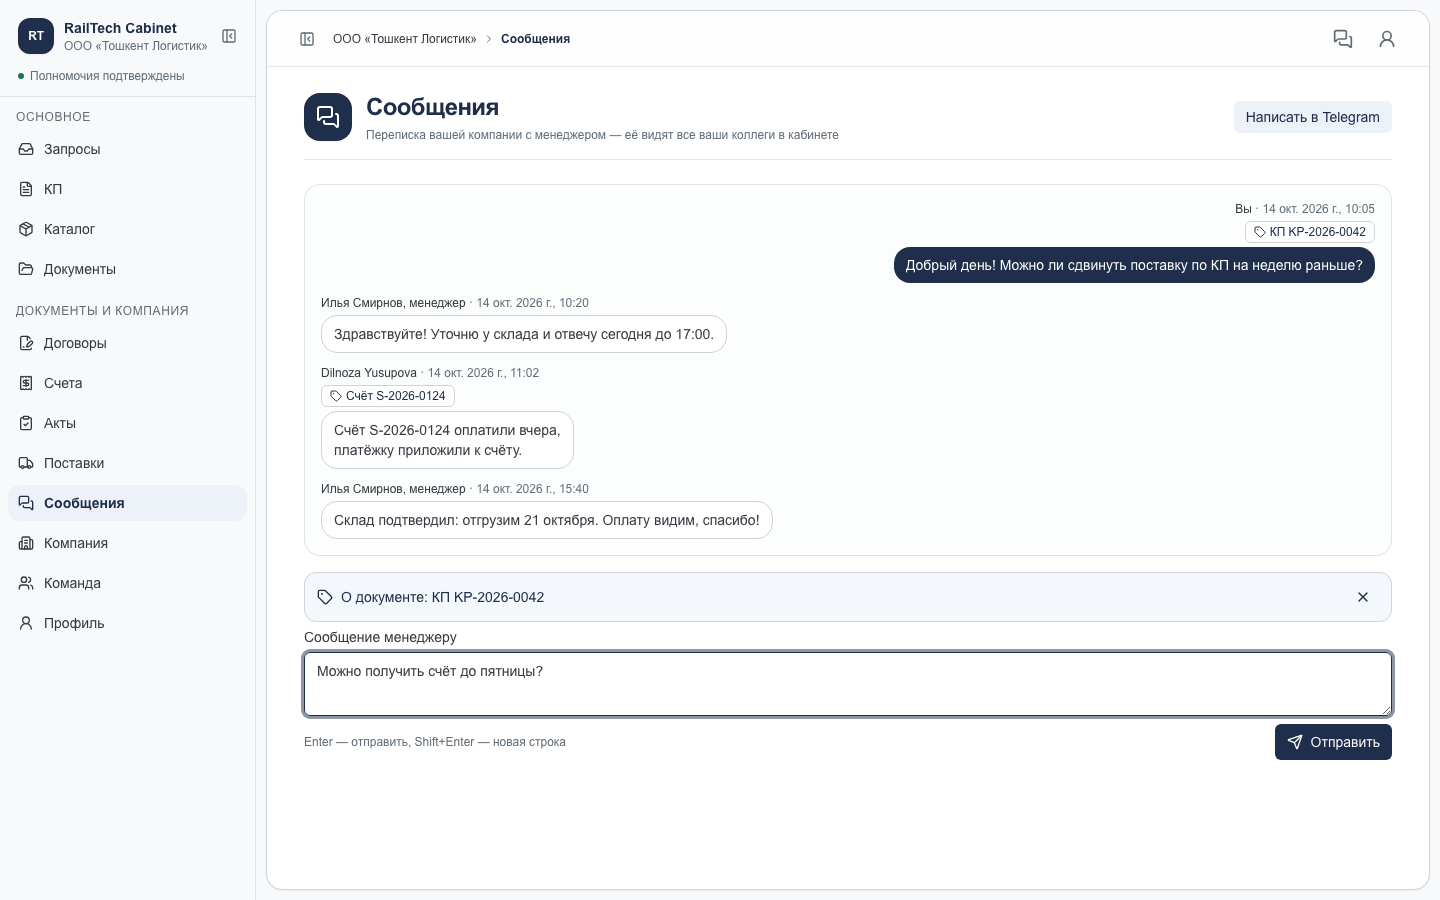
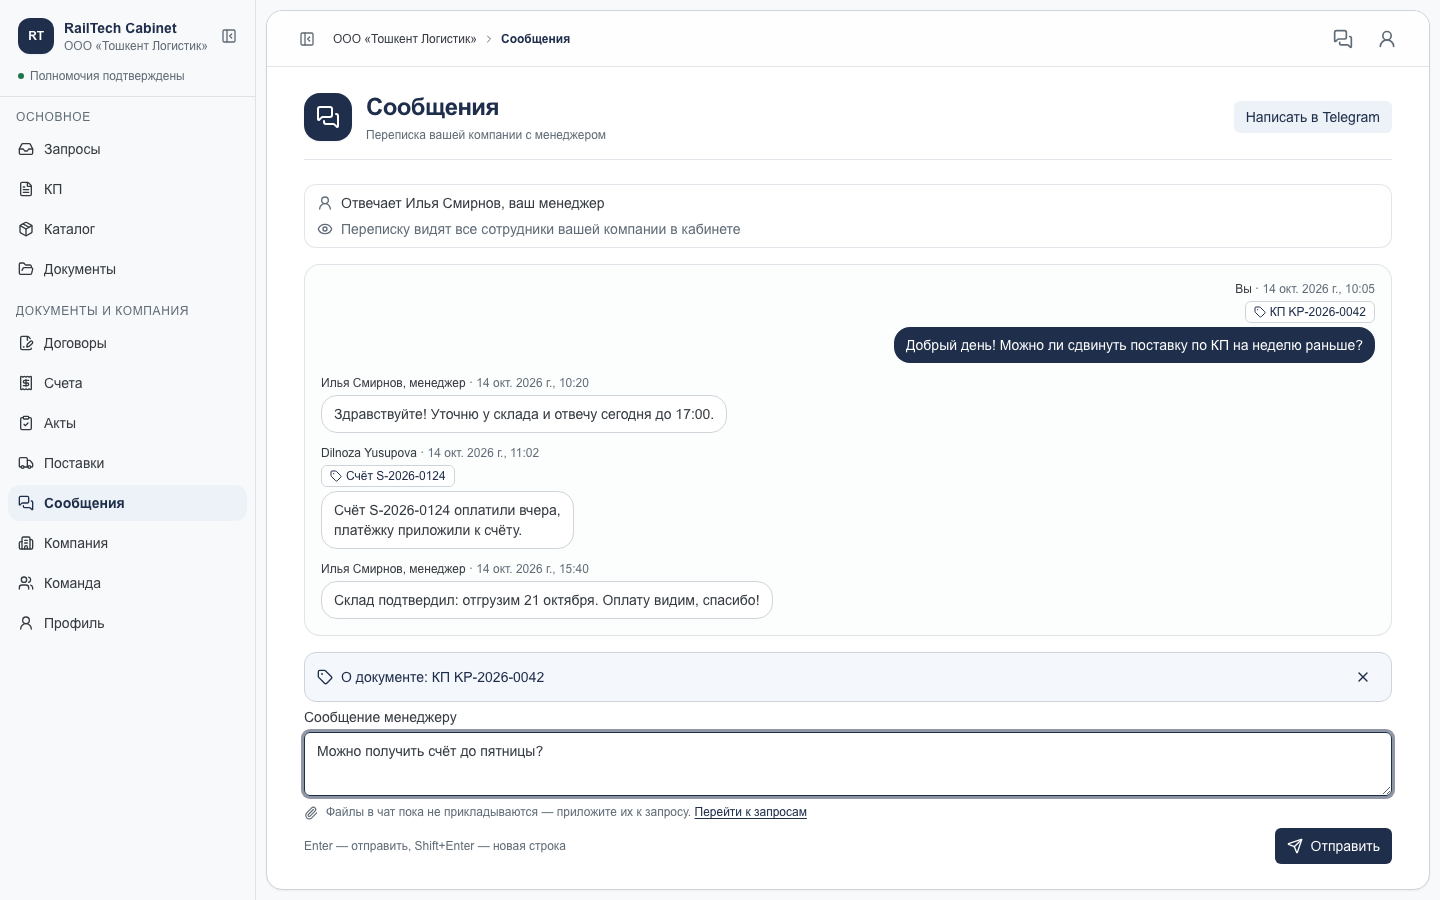
feat(cabinet): шапка чата — кто отвечает и кто видит переписку, метка документа ссылкой по модулю, подсказка о файлах (CHAT-1)
Отвечает менеджер из последнего ответа или команда (срок ответа не обещаем — рабочего времени
CRM у портала нет); «Переписку видят все сотрудники вашей компании в кабинете»; метка документа
открывает КП, проект, счета или акты, только если раздел открыт сессии; файлы — к запросу со
ссылкой при модуле catalog_requests. ru/uz/en, тесты, снимки 1440/390, axe 0.

diff --git a/apps/cabinet/src/pages/messages.tsx b/apps/cabinet/src/pages/messages.tsx
@@ -1,7 +1,7 @@
 import { useEffect, useId, useRef, useState, type KeyboardEvent, type ReactNode } from 'react';
 import { useTranslation } from 'react-i18next';
 import { Link, useSearchParams } from 'react-router-dom';
-import { MessagesSquare, Send, Tag, X } from 'lucide-react';
+import { Eye, MessagesSquare, Paperclip, Send, Tag, UserRound, X } from 'lucide-react';
 
 import type { MessageContext, PortalMessage } from '@/api/portal';
 import { botLink } from '@/app/links';
@@ -14,10 +14,17 @@ import { Label } from '@/components/ui/label';
 import { Textarea } from '@/components/ui/textarea';
 import { useMessagesFeed } from '@/hooks/useMessagesFeed';
 import { formatDateTime } from '@/lib/format';
-import { MESSAGE_MAX_LENGTH, contextFromSearch, contextHref, type PendingMessage } from '@/lib/messages';
+import {
+  MESSAGE_MAX_LENGTH,
+  contextFromSearch,
+  contextHref,
+  contextModule,
+  responderName,
+  type PendingMessage,
+} from '@/lib/messages';
 import { cn } from '@/lib/utils';
 import { useAppMode } from '@/session/mode';
-import { useCanAct, useMe } from '@/session/useMe';
+import { useCanAct, useHasModule, useMe } from '@/session/useMe';
 
 /**
  * «Сообщения» (CHAT-1, ADR-0023): одна лента на компанию — её видят все контакты компании, менеджер отвечает из очереди
@@ -46,6 +53,7 @@ export function MessagesPage() {
         }
       />
       <div className="flex flex-col gap-4">
+        <ChatInfo responder={responderName(messages)} />
         {feed.isPending ? (
           <ListSkeleton rows={3} />
         ) : feed.isError ? (
@@ -56,6 +64,29 @@ export function MessagesPage() {
         <Composer onSend={submit} />
       </div>
     </>
+  );
+}
+
+/**
+ * Шапка чата: кто отвечает (имя менеджера из последнего ответа, иначе — команда) и кто видит переписку. Срок ответа не
+ * обещаем: рабочего времени CRM у портала нет (хвост PR).
+ */
+function ChatInfo({ responder }: { responder: string | null }) {
+  const { t } = useTranslation();
+  return (
+    <section
+      aria-label={t('pages.messages.infoLabel')}
+      className="flex flex-col gap-1.5 rounded-xl border border-border/60 bg-background px-3 py-2 text-sm"
+    >
+      <p className="flex items-center gap-2">
+        <UserRound className="size-4 shrink-0 text-muted-foreground" aria-hidden="true" />
+        {responder ? t('pages.messages.responder', { name: responder }) : t('pages.messages.responderTeam')}
+      </p>
+      <p className="flex items-center gap-2 text-muted-foreground">
+        <Eye className="size-4 shrink-0" aria-hidden="true" />
+        {t('pages.messages.visibleToCompany')}
+      </p>
+    </section>
   );
 }
 
@@ -142,7 +173,7 @@ function Bubble({
   context: MessageContext | null;
   children?: ReactNode;
 }) {
-  const { t, i18n } = useTranslation();
+  const { i18n } = useTranslation();
   return (
     <li className={cn('flex max-w-[85%] flex-col gap-1', mine ? 'items-end self-end' : 'items-start self-start')}>
       <p className="text-xs text-muted-foreground">
@@ -154,15 +185,7 @@ function Bubble({
           </>
         ) : null}
       </p>
-      {context ? (
-        <Link
-          to={contextHref(context)}
-          className="inline-flex items-center gap-1 rounded-md border border-border bg-background px-2 py-0.5 text-xs text-primary outline-none hover:underline focus-visible:ring-2 focus-visible:ring-ring"
-        >
-          <Tag className="size-3" aria-hidden="true" />
-          {t(`pages.messages.context.${context.kind}`, { number: context.number })}
-        </Link>
-      ) : null}
+      {context ? <ContextLabel context={context} /> : null}
       <p
         className={cn(
           'rounded-2xl px-3 py-2 text-sm break-words whitespace-pre-wrap',
@@ -173,6 +196,53 @@ function Bubble({
       </p>
       {children}
     </li>
+  );
+}
+
+/** Метка документа: ссылка на документ в кабинете, если его раздел открыт сессии; иначе — просто подпись. */
+function ContextLabel({ context }: { context: MessageContext }) {
+  const { t } = useTranslation();
+  const open = useHasModule(contextModule(context.kind));
+  const label = t(`pages.messages.context.${context.kind}`, { number: context.number });
+  const base = 'inline-flex items-center gap-1 rounded-md border border-border bg-background px-2 py-0.5 text-xs';
+  if (!open) {
+    return (
+      <span className={cn(base, 'text-muted-foreground')}>
+        <Tag className="size-3" aria-hidden="true" />
+        {label}
+      </span>
+    );
+  }
+  return (
+    <Link
+      to={contextHref(context)}
+      className={cn(base, 'text-primary outline-none hover:underline focus-visible:ring-2 focus-visible:ring-ring')}
+    >
+      <Tag className="size-3" aria-hidden="true" />
+      {label}
+    </Link>
+  );
+}
+
+/** Вложений в чате пока нет: подсказка, что файл прикладывают к запросу (ссылка — если раздел запросов открыт). */
+function AttachHint() {
+  const { t } = useTranslation();
+  const requests = useHasModule('catalog_requests');
+  return (
+    <p className="flex items-start gap-2 text-xs text-muted-foreground">
+      <Paperclip className="mt-0.5 size-3.5 shrink-0" aria-hidden="true" />
+      <span>
+        {t('pages.messages.attachHint')}
+        {requests ? (
+          <>
+            {' '}
+            <Link to="/requests" className="text-primary underline underline-offset-2">
+              {t('pages.messages.attachLink')}
+            </Link>
+          </>
+        ) : null}
+      </span>
+    </p>
   );
 }
 
@@ -257,6 +327,7 @@ function Composer({ onSend }: { onSend: (text: string, context: MessageContext |
         placeholder={t('pages.messages.placeholder')}
         aria-describedby={hintId}
       />
+      <AttachHint />
       <div className="flex flex-wrap items-center justify-between gap-2">
         <p id={hintId} className="text-xs text-muted-foreground">
           {canAct ? t(mode === 'web' ? 'pages.messages.hintWeb' : 'pages.messages.hint') : t('pages.messages.viewOnly')}

diff --git a/apps/cabinet/src/__tests__/messages.test.tsx b/apps/cabinet/src/__tests__/messages.test.tsx
@@ -197,6 +197,52 @@ describe('«Сообщения»', () => {
     expect(within(page()).getByText(/sizda faqat ko‘rish/)).toBeInTheDocument();
   });
 
+  it('шапка: отвечает менеджер из последнего ответа, переписку видит вся компания, файл — к запросу', async () => {
+    signedIn();
+    renderApp('/messages');
+    await heading('Сообщения');
+    await within(page()).findByRole('list', { name: 'Переписка с менеджером' });
+    const info = within(page()).getByRole('region', { name: 'О переписке' });
+    expect(info).toHaveTextContent('Отвечает Илья Смирнов, ваш менеджер');
+    expect(info).toHaveTextContent('Переписку видят все сотрудники вашей компании в кабинете');
+    expect(info).not.toHaveTextContent(/в течение|до \d|час/); // срок ответа не обещаем
+    expect(within(page()).getByText(/Файлы в чат пока не прикладываются/)).toBeInTheDocument();
+    expect(within(page()).getByRole('link', { name: 'Перейти к запросам' })).toHaveAttribute('href', '/requests');
+    await expectNoAxeViolations();
+  });
+
+  it('пустая лента — отвечает команда; без раздела запросов подсказка о файле без ссылки', async () => {
+    signedIn('actor', 'empty', { roles: ['partner'], modules: ['my_products', 'messages', 'profile'] });
+    renderApp('/messages');
+    await heading('Сообщения');
+    const info = await within(page()).findByRole('region', { name: 'О переписке' });
+    expect(info).toHaveTextContent('Отвечает команда RailTech');
+    expect(within(page()).getByText(/Файлы в чат пока не прикладываются/)).toBeInTheDocument();
+    expect(within(page()).queryByRole('link', { name: 'Перейти к запросам' })).toBeNull();
+  });
+
+  it('метка документа открывает документ, только если его раздел открыт сессии', async () => {
+    signedIn('actor', 'demo', { roles: ['partner'], modules: ['catalog_requests', 'messages', 'profile'] });
+    renderApp('/messages');
+    await heading('Сообщения');
+    const list = await within(page()).findByRole('list', { name: 'Переписка с менеджером' });
+    // у партнёра нет «КП» и «Счетов»: метки — подписи без ссылок
+    expect(within(list).getByText('КП KP-2026-0042')).toBeInTheDocument();
+    expect(within(list).queryByRole('link', { name: 'КП KP-2026-0042' })).toBeNull();
+    expect(within(list).queryByRole('link', { name: 'Счёт S-2026-0124' })).toBeNull();
+    await userEvent.click(within(list).getByText('КП KP-2026-0042'));
+    expect(await screen.findByRole('heading', { name: 'Сообщения', level: 1 })).toBeInTheDocument();
+  });
+
+  it('метка документа кликабельна у клиента: КП открывает карточку КП', async () => {
+    signedIn();
+    renderApp('/messages');
+    await heading('Сообщения');
+    const list = await within(page()).findByRole('list', { name: 'Переписка с менеджером' });
+    await userEvent.click(within(list).getByRole('link', { name: 'КП KP-2026-0042' }));
+    await heading(/KP-2026-0042/);
+  });
+
   it('пустая лента — подсказка, что писать сюда', async () => {
     signedIn('actor', 'empty');
     renderApp('/messages');

diff --git a/apps/cabinet/src/lib/messages.ts b/apps/cabinet/src/lib/messages.ts
@@ -36,6 +36,28 @@ export function contextFromSearch(search: URLSearchParams): MessageContext | nul
   return { kind: kind as MessageContextKind, id, number: number.slice(0, 64) };
 }
 
+/** Модуль кабинета, который открывает документ метки: проект и КП — «КП», счёт — «Счета», акт — «Акты». */
+export function contextModule(kind: MessageContextKind): string {
+  switch (kind) {
+    case 'deal':
+    case 'quote':
+      return 'quotes';
+    case 'invoice':
+      return 'invoices';
+    case 'act':
+      return 'acts';
+  }
+}
+
+/** Кто отвечает в чате: имя менеджера из последнего его ответа в ленте; нет — `null` (отвечает команда). */
+export function responderName(messages: readonly PortalMessage[]): string | null {
+  for (let index = messages.length - 1; index >= 0; index -= 1) {
+    const message = messages[index];
+    if (message.direction === 'manager' && message.author_name) return message.author_name;
+  }
+  return null;
+}
+
 /** Куда ведёт метка документа в ленте: сделка и КП — карточка, счёт и акт — их список. */
 export function contextHref(context: MessageContext): string {
   switch (context.kind) {
